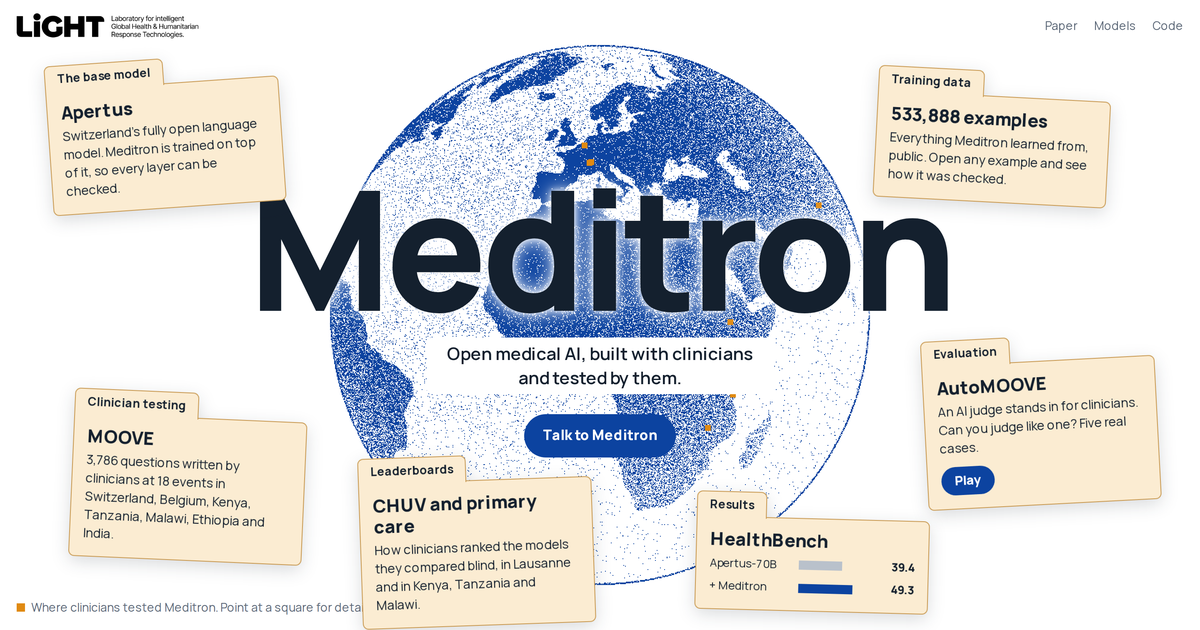
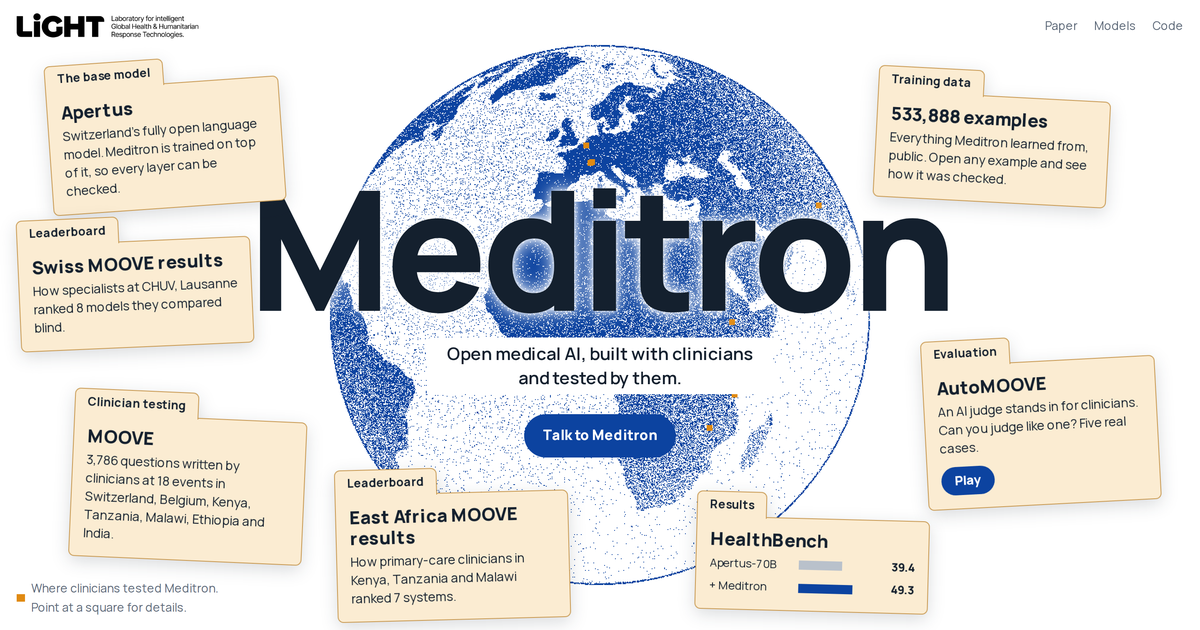
Split the leaderboard folder into Swiss and East Africa MOOVE results
Two folders beside the MOOVE one, each opening the leaderboard on its own
board (#swiss-moove, #east-africa-moove; #leaderboards still works). The globe
key wraps to two lines so the East Africa folder clears it. Share preview
retaken.

Changed region(s): [[0.0, 0.0603, 0.7092, 1.0], [0.0, 0.3317, 0.2158, 0.573]]

diff --git a/index.html b/index.html
@@ -45,7 +45,7 @@
         <a class="talk" href="#chat">Talk to Meditron</a>
       </div>
 
-      <p class="globe-key"><span class="dot" aria-hidden="true"></span>Where clinicians tested Meditron. Point at a square for details.</p>
+      <p class="globe-key"><span class="dot" aria-hidden="true"></span><span>Where clinicians tested Meditron.<br>Point at a square for details.</span></p>
 
       <div class="folders" aria-label="The parts of Meditron">
         <button class="folder" type="button" data-open="apertus" style="--l:4%;--t:9%;--r:-4deg">
@@ -69,19 +69,26 @@
             <span class="folder-text">3,786 questions written by clinicians at 18 events in Switzerland, Belgium, Kenya, Tanzania, Malawi, Ethiopia and India.</span>
           </span>
         </button>
+        <button class="folder" type="button" data-open="swiss-moove" style="--l:1.5%;--t:34%;--r:-2.5deg">
+          <span class="folder-tab">Leaderboard</span>
+          <span class="folder-body">
+            <strong class="folder-title">Swiss MOOVE results</strong>
+            <span class="folder-text">How specialists at CHUV, Lausanne ranked 8 models they compared blind.</span>
+          </span>
+        </button>
+        <button class="folder" type="button" data-open="east-africa-moove" style="--l:28%;--t:74%;--r:-1.5deg">
+          <span class="folder-tab">Leaderboard</span>
+          <span class="folder-body">
+            <strong class="folder-title">East Africa MOOVE results</strong>
+            <span class="folder-text">How primary-care clinicians in Kenya, Tanzania and Malawi ranked 7 systems.</span>
+          </span>
+        </button>
         <button class="folder folder-play" type="button" data-open="automoove" style="--l:77%;--t:53%;--r:-3deg">
           <span class="folder-tab">Evaluation</span>
           <span class="folder-body">
             <strong class="folder-title">AutoMOOVE</strong>
             <span class="folder-text">An AI judge stands in for clinicians. Can you judge like one? Five real cases.</span>
             <span class="folder-cta">Play</span>
-          </span>
-        </button>
-        <button class="folder" type="button" data-open="leaderboards" style="--l:30%;--t:72%;--r:-2deg">
-          <span class="folder-tab">Leaderboards</span>
-          <span class="folder-body">
-            <strong class="folder-title">CHUV and primary care</strong>
-            <span class="folder-text">How clinicians ranked the models they compared blind, in Lausanne and in Kenya, Tanzania and Malawi.</span>
           </span>
         </button>
         <button class="folder" type="button" data-open="healthbench" style="--l:58%;--t:78%;--r:1.5deg">
@@ -254,8 +261,8 @@
       <h2>How clinicians ranked the models</h2>
       <p class="lead">At MOOVE events, clinicians read two anonymous answers to the same question and vote for the better one. Thousands of votes add up to a ranking: the share of matchups each model would win against an average model at that event.</p>
       <div class="board-tabs" role="group" aria-label="Choose a leaderboard">
-        <button type="button" data-board="chuv" aria-pressed="true">CHUV, Lausanne</button>
-        <button type="button" data-board="phc" aria-pressed="false">Primary care, East Africa</button>
+        <button type="button" data-board="chuv" aria-pressed="true">Swiss MOOVE</button>
+        <button type="button" data-board="phc" aria-pressed="false">East Africa MOOVE</button>
       </div>
       <p class="board-note" data-note="chuv">Three events at CHUV, Lausanne, Aug 2024 to Nov 2025: 684 questions from hospital specialists, 1,788 clinician-ranked pairs. Not every pair of models met equally often.</p>
       <p class="board-note" data-note="phc" hidden>Kenya PHC, Tanzania PHC and Malawi PHC, May to Aug 2026: 605 primary-care questions, 4,235 clinician-ranked pairs, every system against every other. During these events Apertus-70B-MeditronFO was served at temperature 1.0, which cut off many of its answers.</p>

diff --git a/static/app.js b/static/app.js
@@ -190,22 +190,29 @@ const panel = document.getElementById('panel');
 const panelBody = document.getElementById('panel-body');
 const panelTitle = document.getElementById('panel-title');
 
+// The two leaderboard folders open the same page, each on its own board.
+const BOARD_PAGES = {
+  'swiss-moove': { board: 'chuv', title: 'Swiss MOOVE results' },
+  'east-africa-moove': { board: 'phc', title: 'East Africa MOOVE results' },
+};
+const templateFor = (name) => document.getElementById(`tpl-${BOARD_PAGES[name] ? 'leaderboards' : name}`);
+
 function route() {
   const name = location.hash.slice(1);
-  const tpl = document.getElementById(`tpl-${name}`);
+  const tpl = templateFor(name);
   if (!tpl) { if (panel.open) panel.close(); return; }
-  panelTitle.textContent = tpl.dataset.title;
+  panelTitle.textContent = BOARD_PAGES[name]?.title ?? tpl.dataset.title;
   panelBody.replaceChildren(tpl.content.cloneNode(true));
   panelBody.scrollTop = 0;
   if (name === 'automoove') startGame(document.getElementById('game'));
-  if (name === 'leaderboards') showBoards(document.getElementById('boards'));
+  if (tpl.id === 'tpl-leaderboards') showBoards(document.getElementById('boards'), BOARD_PAGES[name]?.board ?? 'chuv');
   if (!panel.open) panel.showModal();
 }
 function closePanel() {
   if (panel.open) panel.close();
 }
 panel.addEventListener('close', () => {
-  if (document.getElementById(`tpl-${location.hash.slice(1)}`)) {
+  if (templateFor(location.hash.slice(1))) {
     history.pushState(null, '', location.pathname + location.search);
   }
 });
@@ -239,7 +246,7 @@ function renderMarkdown(text) {
 
 let boardData = null;
 
-async function showBoards(root) {
+async function showBoards(root, first) {
   if (!boardData) {
     try {
       boardData = await (await fetch('static/data/leaderboards.json')).json();
@@ -266,9 +273,13 @@ async function showBoards(root) {
   }
   root.onclick = (e) => {
     const b = e.target.closest('[data-board]');
-    if (b) show(b.dataset.board);
+    if (!b) return;
+    show(b.dataset.board);
+    const [page, { title }] = Object.entries(BOARD_PAGES).find(([, p]) => p.board === b.dataset.board);
+    panelTitle.textContent = title;
+    history.replaceState(null, '', `#${page}`);
   };
-  show('chuv');
+  show(first);
 }
 
 /* ------------------------------------------------------ AutoMOOVE game */
